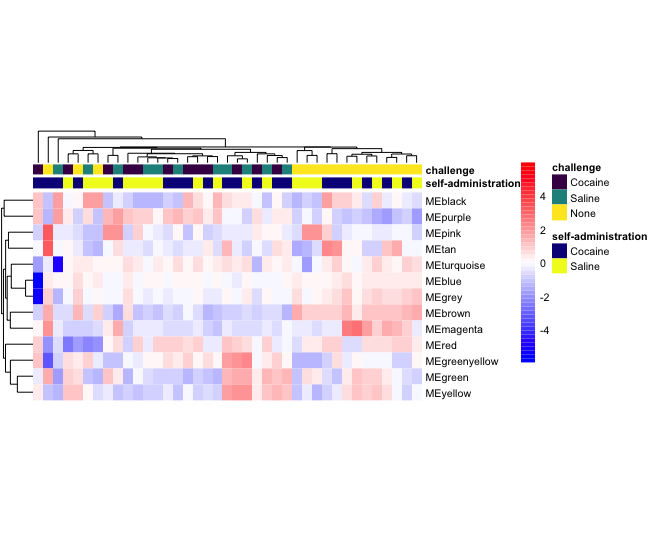
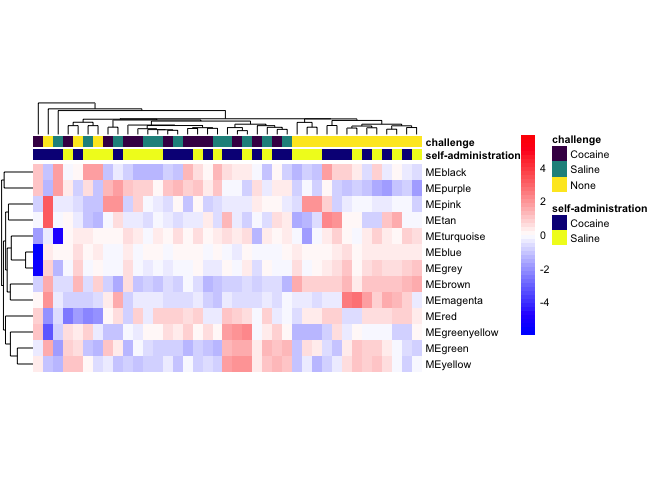
wgcna

Changed region(s): [[0.0, 0.1875, 0.9688, 0.7812], [0.0625, 0.4688, 0.0938, 0.5]]

diff --git a/data_analysis/WGCNA.md b/data_analysis/WGCNA.md
@@ -329,6 +329,6 @@ pheatmap::pheatmap(t(MEs), scale = "row", clustering_distance_cols = "euclidean"
 		color = colorRampPalette(c("blue", "white", "red"))(50), fontsize = 8)
 ```
 
-<img src="WGCNA_files/figure-html/unnamed-chunk-12-1.png" alt="" width="70%" />
+<img src="WGCNA_files/figure-html/unnamed-chunk-12-1.png" alt="" width="80%" />
 
 
